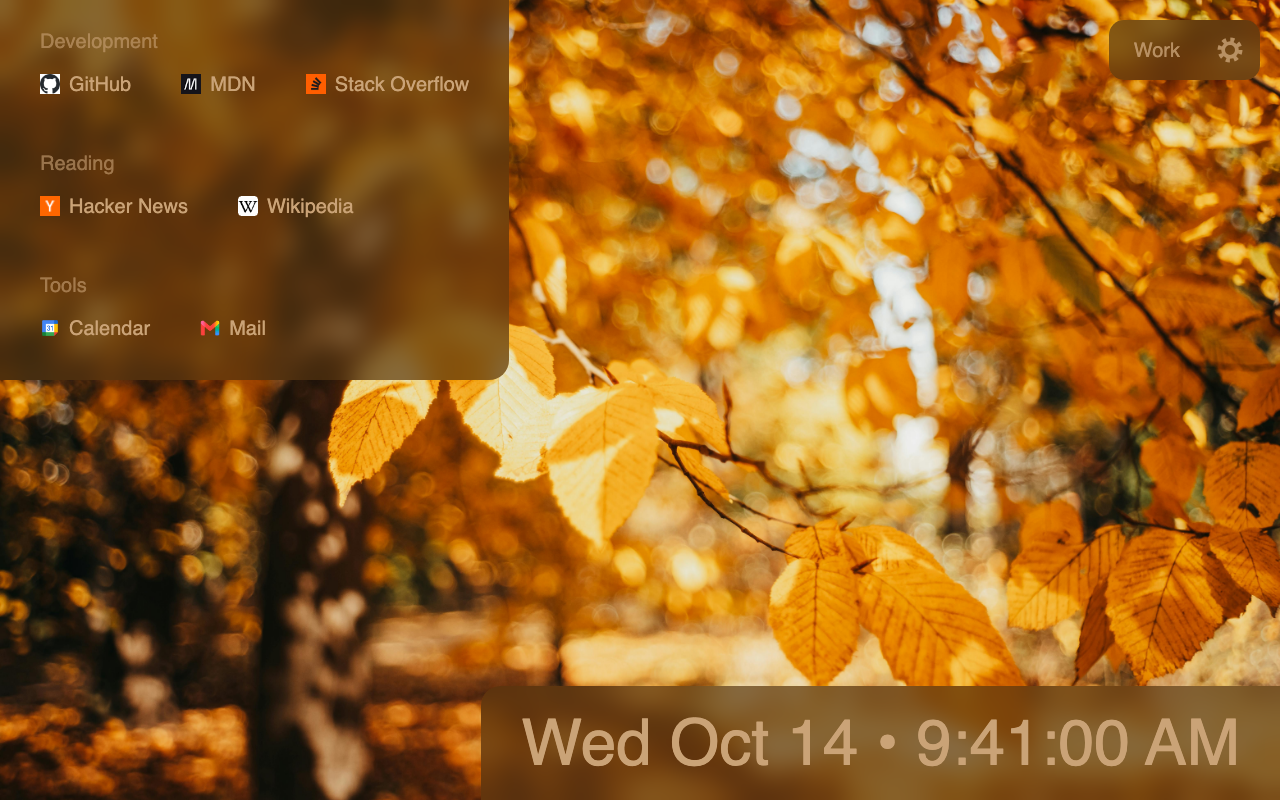
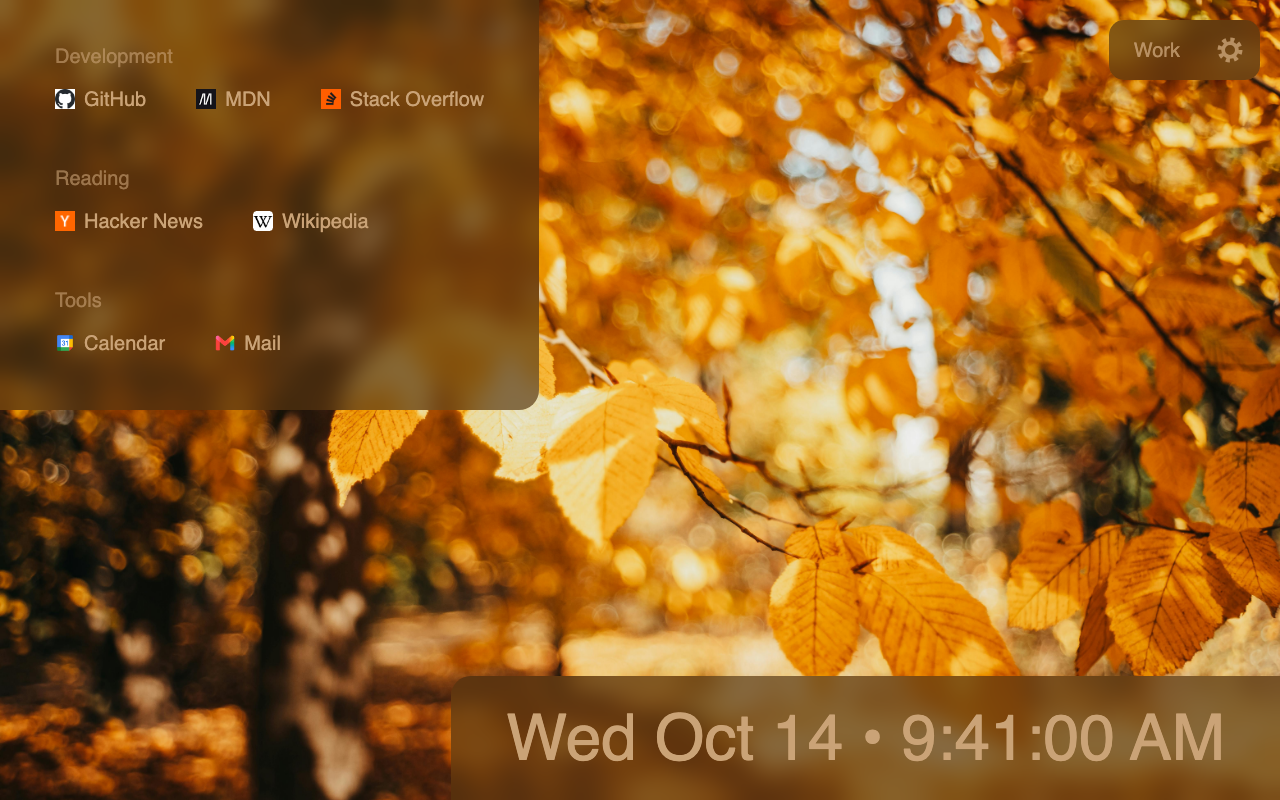
Give the panels more padding at every density
The panels felt cramped at all three densities. The base panel padding
goes from 1rem to 1.75rem, with the clock and the Center footer padded to
match (clock text stays in line with the link text), and Compact eases
from 0.6x to 0.7x.

With the extra room, Center can outgrow a short window. Only the links
now scroll in that case, so the clock and the footer controls stay in
view instead of scrolling away with them.

Regenerates the store screenshots.

diff --git a/panels.css b/panels.css
@@ -58,7 +58,7 @@ body.no-favicons a.link .favicon {
   border-radius: var(--panel-radius);
   backdrop-filter: blur(var(--panel-blur));
   box-shadow: var(--panel-line);
-  padding: calc(1rem * var(--density, 1));
+  padding: calc(1.75rem * var(--density, 1));
   max-height: 100%;
   overflow: auto;
 }
@@ -124,8 +124,8 @@ body.no-favicons a.link .favicon {
   /* Matches the links panel: its padding vertically, and its text inset
      (panel padding plus link padding) horizontally, so the two panels read
      as a set. --density comes from the density setting (end of file). */
-  --clock-pad-y: 1rem;
-  --clock-pad-x: 2rem;
+  --clock-pad-y: 1.25rem;
+  --clock-pad-x: 2.75rem;
   padding: calc(var(--clock-pad-y) * var(--density, 1)) calc(var(--clock-pad-x) * var(--density, 1));
   z-index: 1;
   border-top-right-radius: 0;
@@ -165,7 +165,9 @@ body[data-layout="center"] {
     display: flex;
     flex-direction: column;
     max-height: 100%;
-    overflow: auto;
+    /* when the panel is taller than the window, only the links scroll, so
+       the clock and the footer controls stay in view */
+    overflow: hidden;
     border-radius: var(--panel-radius);
     background: var(--panel-background);
     backdrop-filter: blur(var(--panel-blur));
@@ -183,12 +185,18 @@ body[data-layout="center"] {
     overflow: visible;
   }
 
+  & .link-groups {
+    flex: 1 1 auto;
+    min-height: 0;
+    overflow: auto;
+  }
+
   /* Lock-screen clock: the date on its own line above a large, light time */
   & .clock {
     order: -1;
     /* x matches the links' text inset, so the divider lines up with them */
-    --clock-pad-y: 1.1rem;
-    --clock-pad-x: 2rem;
+    --clock-pad-y: 1.75rem;
+    --clock-pad-x: 2.75rem;
     text-align: center;
 
     & > span {
@@ -219,11 +227,11 @@ body[data-layout="center"] {
     align-items: center;
     justify-content: flex-end;
     gap: calc(0.25rem * var(--density, 1));
-    padding: 0 calc(1.25rem * var(--density, 1)) calc(1rem * var(--density, 1));
+    padding: 0 calc(2rem * var(--density, 1)) calc(1.5rem * var(--density, 1));
   }
 
-  /* Open upward: the panel scrolls (overflow: auto), so a menu hanging
-     below it would be clipped */
+  /* Open upward: the panel clips its overflow, so a menu hanging below it
+     would be cut off */
   & .set-switcher-menu {
     top: auto;
     bottom: calc(100% + 0.5rem);
@@ -257,7 +265,7 @@ body[data-layout="center"] {
 /* Density scales every padding and gap in both panels (the calc()s using
    --density above); comfortable is 1 */
 body[data-density="compact"] {
-  --density: 0.6;
+  --density: 0.7;
 }
 
 body[data-density="spacious"] {
